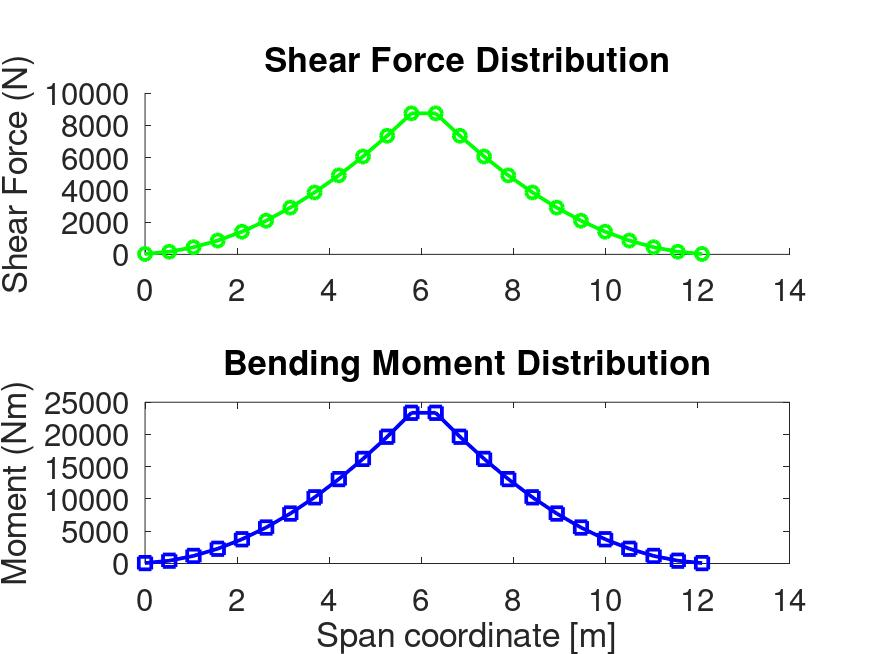
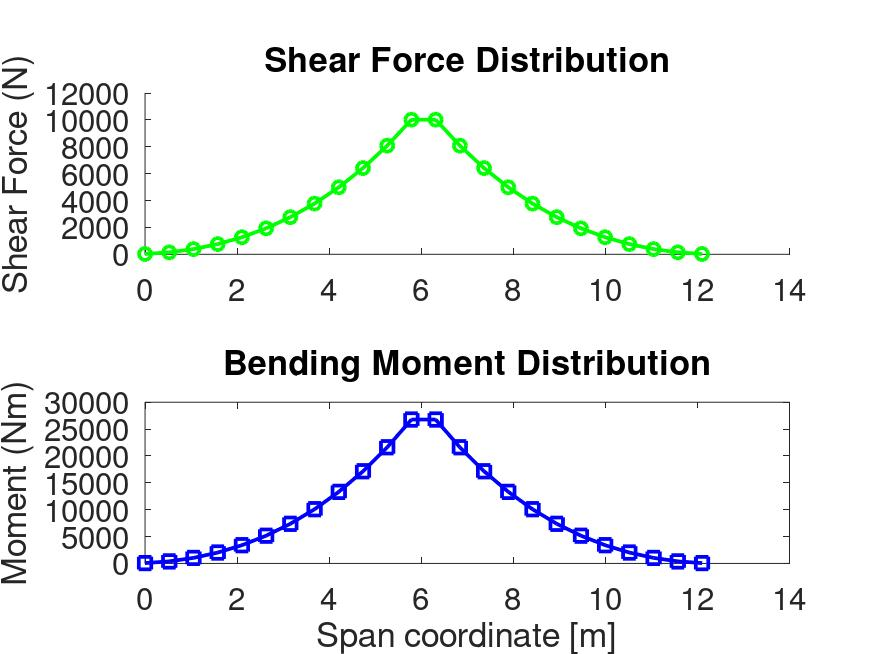
Changed a lot

diff --git a/project/plot_stress.m b/project/plot_stress.m
@@ -19,6 +19,7 @@ function plot_stress(v)
     E = 23.9E9;
     
     Ixx = 1.6117e+05 * 10^(-12);
+    Ixx = 1.6E-5;
     
     ndof = length(v);
     nnode = fix(ndof/3);
@@ -37,6 +38,7 @@ function plot_stress(v)
 
         
         theta(k) = 180/pi * v(3+3*(k-1)); % nodal twist
+        % theta(k) = v(3+3*(k-1)); % nodal twist
     end
     % Compute normal stress along span
     % Moment = -E * I * w'',
@@ -53,8 +55,8 @@ function plot_stress(v)
     w2 = diff(w1)/le;
     
 
-    t = c * 0.01;
-    % t = 0.11;
+    t = c * 0.17;
+    % t = 110e-3;
     Mx = E * Ixx .* w2';
     % Z = Mx /(0.5*t) ;
     sigma = 0.5*t*Mx /Ixx;
@@ -87,33 +89,16 @@ function plot_stress(v)
     % set(gca,'XTickLabel',a,'fontsize',15)
     % set(gca,'YTickLabel',b,'fontsize',15)
     
-    K = 1.45* 0.0212 * c^3 * 6e-4; % torsion constant of beam section [m^4], assume the thickness is t = 6mm
-    GK = G*K;
-    r = 120/2000;
-    thetap = diff(theta)*pi/180;
-    Mt = GK * thetap;
-    Tx = Mt/(r);
-    % A = 2*80*110*10^(-6);
-    A = 2 * 54000*0.6*10^(-6);
-    J = pi*(110^4 - 80^4)/32 * 10^(-12)
-    % J = 2 * Ixx
-    tau = Mt/J;
-    % tau = Tx/J ;
+    K = 1.45* 0.0212 * c^3 * 0.6e-3; % torsion constant of beam section [m^4], assume the thickness is t = 6mm
+    GK =G*K;
 
-    % figure(51);
-    % set(gcf, 'PaperPositionMode', 'manual');
-    % set(gcf, 'PaperUnits', 'inches');
-    % x0=600;y0=75;width=600;height=400;
-    % set(gcf,'units','points','position',[x0,y0,width,height])
-    % subplot(2,1,1);
-    % hold on 
-    % plot(ye,tau,"ro-","linewidth",1.8);
-    % title("Shear Stress Distribution","fontsize",15)
-    % ylabel("Shear Stress (pa)","fontsize",8)
-    % a = get(gca,'XTickLabel');
-    % b = get(gca,'YTickLabel');
-    % set(gca,'XTickLabel',a,'fontsize',18)
-    % set(gca,'YTickLabel',b,'fontsize',18)
+
+    thetap = (1/le).*diff(theta)*pi/180;
+    Mt = GK * thetap ;
+    
+    A = 54000*0.55*0.3*10^(-9);
+    tau = Mt/(2*A);
+    
 
     subplot(2,1,2);
     plot(ye,tau,"bs-","linewidth",1.8)
@@ -125,15 +110,18 @@ function plot_stress(v)
     set(gca,'XTickLabel',a,'fontsize',15)
     set(gca,'YTickLabel',b,'fontsize',15)
 
-    % print -djpg Stress7.jpg
-    % print -djpg Stress5.jpg
+    % print -djpg Stress73.jpg
+    % print -djpg Stress53.jpg
     % Minimum Safety Factor = Ultimate_stress/ max_Allowed_stress
     % In our case, since the material property is similar to Aluminum, we can assume 
     % Assume the ultimate stress is identical to alumn's 
-    Ultimate_norm = 633E6 ;
-    Ultimate_shear = 31E6 ;
-    % Ultimate_shear = 2015/J ;
 
+    % Ultimate_norm = 633E6
+    % Ultimate_norm = 53007 * 0.5*t/Ixx
+    Ultimate_norm = 208E6
+   
+    Ultimate_shear = 158E6
+    
     factor_normal = Ultimate_norm / max(abs(sigma));
     factor_shear = Ultimate_shear / max(abs(tau));
     fprintf("Minimum Safety factor of normal stress is %.2f\n", factor_normal)

diff --git a/project/task3_valid.m b/project/task3_valid.m
@@ -38,7 +38,7 @@ E = 23.9E9;
 % The format is dpm(i,:) = [mass x_coord y_coord]
 % 7 connection in total
 % From  root to tip = 1:7
-npmass = 15 ;
+npmass = 7 ;
 m1 = 3*(40.33+6.39+2)/1000; %kg
 m2 = 3*(20.06+2*2)/1000; %kg
 m3 = 3*(40.33+2*6.39+2*2)/1000; %kg
@@ -60,13 +60,12 @@ dpm(7,:) =[m1 x_coord 0.5*l];
 dpm(8,:) =[m_fuse 0 l/2];
 
 
-dpm(9,:)  =[m1 x_coord  (l/12 + l/2)];
-dpm(10,:)  =[m2 x_coord  (l/12 + l/2)];
-dpm(11,:) =[m3 x_coord  (2*l/12 + l/2)];
-dpm(12,:) =[m2 x_coord  (3*l/12 +l/2)];
-dpm(13,:) =[m3 x_coord  (4*l/12 + l/2)];
-dpm(14,:) =[m2 x_coord  (5*l/12 + l/2)];
-dpm(15,:) =[m1 x_coord  l];
+dpm(9,:)  =[m2 x_coord  (l/12 + l/2)];
+dpm(10,:) =[m3 x_coord  (2*l/12 + l/2)];
+dpm(11,:) =[m2 x_coord  (3*l/12 +l/2)];
+dpm(12,:) =[m3 x_coord  (4*l/12 + l/2)];
+dpm(13,:) =[m2 x_coord  (5*l/12 + l/2)];
+dpm(14,:) =[m1 x_coord  l];
 
 ndof = 3*nnodes;
 % Since aircraft is maneuvoring, no rigid body conrtain at all
@@ -89,12 +88,14 @@ B(1,:) = e1';
 B(2,2:3:end) = 1;
 B(2,1:3:end) = yn;
 idof = 3*(nelem/2)+3;
-B(3,:) = e3';
 % B(3,idof) = 1;
+B(3,:) = e3';
 
-nz=9;
-u= 350/3.6;
-% u = 30;
+
+
+
+nz=9;u= 350/3.6;
+
 k=0;
 [Q,vtot,ve,alfa0,delta0] = flight_load(K,M,B,Qip,f,nelem,u,nz,k);
 
@@ -103,8 +104,8 @@ fprintf("Total mass of aircraft is %.2f kg \n",mtot);
 
 fprintf("The initial angle of attack is %.2f deg \n",alfa0*180/pi);
 fprintf("The angle of attack is %.2f deg \n",vtot(idof)*180/pi);
-fprintf("The elevator deflection  is %.2f deg \n",delta0*180/pi);
-plot_stress(vtot);
+fprintf("The aileron deflection  is %.2f deg \n",delta0*180/pi);
+% plot_stress(vtot);
 Z = null(B);
 
 [udiv,zdiv] = divergence(Z'*K*Z,Z'*Q*Z);

diff --git a/project/nwing.m b/project/nwing.m
@@ -49,7 +49,7 @@ function [M,K,Z,Qip,f,CRv,CRd,GK] = nwing(B, l, b, t, ba, mhinge, rhop, E, G, ne
   xte = +b;
   ca = chail*ones(nsup, 1);
   xea = -0.5*chail;
-
+  xea
   % mass and inertia properties
   mp = rhop*chord*t; 
   # The mass per unit lenth of spar, material : carborn fiber
@@ -71,7 +71,8 @@ function [M,K,Z,Qip,f,CRv,CRd,GK] = nwing(B, l, b, t, ba, mhinge, rhop, E, G, ne
   Jd = 0;                    % neglect rotary inertia [kgm]
 
   % center of distributed mass and rotary inertia
-  xcm = (mp*xp+md*xd) / (mp+md);               % center of distributed mass
+  xcm = (mp*xp+md*xd) / (mp+md);   
+  xcm            % center of distributed mass
   Jcm = Jp+mp*(xp-xcm)^2 + Jd+md*(xd-xcm)^2;   % rotary inertia wrt cm [kgm]
 
   % total distributed properties
@@ -89,10 +90,11 @@ function [M,K,Z,Qip,f,CRv,CRd,GK] = nwing(B, l, b, t, ba, mhinge, rhop, E, G, ne
   ## And spar is a box 
   % I = (cplate*t^3/12); 
   % fprintf("Moment of Inertia is %.8E \n",I) 
-  I = 1.6117e+05 * 10^(-12);
-  % I = 1.4E-6;% beam section area moment of inertia [m^4]
+  % I = 1.6117e+05 * 10^(-12);
+  I = 1.6E-5;% beam section area moment of inertia [m^4]
   fprintf("Moment of Inertia is %.8E \n",I) 
   EI = E*I;            % bending stiffness [Nm^2]
+  EI
   # According to W12C-JARA reference
   K = 1.45* 0.0212 * chord^3 * 6e-4; % torsion constant of beam section [m^4], assume the thickness is t = 6mm
   GK = G*K;            % torsional stiffness [Nm^2]

diff --git a/project/flight_load_no_HTP.m b/project/flight_load_no_HTP.m
@@ -44,11 +44,11 @@ function [Q,vtot,ve,alfa0,delta0] = flight_load(K,M,B,Qip,f,nelem,u,nz,k)
     ######### Solve the inertia relief 
 
     LHS = [
-            Z'*(K-q*Q0)*Z    -q*Z'*Q0*e3      zeros(ndof-3,1)
+            Z'*(K-q*Q0)*Z    -q*Z'*Q0*e3     
             
-            q*e1'*Q0*Z       q*e1'*Q0*e3      q*e1'*Qtail*e3
-
-            q*e3'*Q0*Z        q*e3'*Q0*e3      q*e3'*Qtail*e3
+            q*e1'*Q0*Z       q*e1'*Q0*e3     
+     
+            % q*e3'*Q*Z        q*e3'*Q*e3      q*e3'*f
            
             ];
 
@@ -59,21 +59,29 @@ function [Q,vtot,ve,alfa0,delta0] = flight_load(K,M,B,Qip,f,nelem,u,nz,k)
 
             e1'*M*e1*g*nz
             
-            0
+        
             ];
 
     x = LHS\RHS;
 
     # Extract elastic deformation 
-    vhat = x(1:end-2);
+    vhat = x(1:end-1);
     # Extract angle of attack as rigid body motion
-    alfa0 = x(end-1);
-    delta0 = x(end);
+    alfa0 = x(end);
+    delta0 = -5*pi/180;
     # Assemble the deformation vector 
-    vtot = Z*vhat + alfa0*e3 + delta0*e3;
-    ve = Z*x(1:end-2);
+    vtot = Z*vhat + alfa0*e3;
+ 
+    ve = Z*x(1:end-1);
     
     # Check residual of solution by the equlibrium
-    res = K * vtot + M * nz * g* e1 - q * Q0 * vtot;
-    fprintf("Computation residual =  %E \n",min(abs(res)))
+    % res = K * vtot + M * nz * g* e1 - q * Q0 * vtot;
+    % fprintf("Computation residual =  %E \n",min(abs(res)))
+
+
+
+
+
+
+
 end

diff --git a/project/valid_plot.m b/project/valid_plot.m
@@ -14,11 +14,12 @@ function valid_plot(v)
 # According to the technic report, the main wing is assumed as ellipse with chord = 500mm
     b = c/2 ; % m
 # The alieron span is defined as c*E, E = 0.225 in W12C-JARA-0001.pdf P
-    t = 6e-3;
+
     G = 8600E6;
     E = 23.9E9;
     
-    Ixx = 1.6117e+05 * 10^(-12);
+    % Ixx = 1.6117e+05 * 10^(-12);
+    Ixx = 1.85E-5;
     
     ndof = length(v);
     nnode = fix(ndof/3);
@@ -53,12 +54,15 @@ function valid_plot(v)
     w2 = diff(w1)/le;
     
 
-    t = c * 0.01;
+    t = c * 0.17;
+    % t = 115e-3;
     r = 2.6723;
-    Mx = 1.01*E * Ixx .* w2';
+    % Mx = 1.01*E * Ixx .* w2';
+    Mx = E * Ixx .* w2';
     Z = Mx /(r) ;
     fprintf("Maximum Bending moment %.2f \n",max(Mx));
     fprintf("Maximum Shear Force %.2f \n",max(Z));
+    % sigma = 0.5*t*Mx /Ixx;
     sigma = 0.5*t*Mx /Ixx;
    
 
@@ -91,7 +95,7 @@ function valid_plot(v)
 
     print -djpg StressValid.jpg
 
-    Ultimate_norm = 633E6 ;
+    Ultimate_norm = 208E6 ;
     factor_normal = Ultimate_norm / max(abs(sigma));
     fprintf("Minimum Safety factor of normal stress is %.2f\n", factor_normal)
 end

diff --git a/pkbeam/labwing.m b/pkbeam/labwing.m
@@ -75,6 +75,7 @@ function [M,K,Z,Qip,f,CRv,CRd,s] = labwing(B, l, b, t, ba, mhinge, rhop, E, G, n
   fprintf("Moment of Inertia is %.8E \n",I) 
   K = (cplate*t^3/3);  % torsion constant of beam section [m^4]
   EI = E*I;            % bending stiffness [Nm^2]
+  EI
   GK = G*K;            % torsional stiffness [Nm^2]
 
   % finally, setup wing with spanwise constant properties

diff --git a/project/full_flutter.m b/project/full_flutter.m
@@ -53,7 +53,7 @@ yn = 0.5*l*linspace(-1,1,nnodes);idof = 3*(nelem/2)+3;B = zeros(3,ndof);
 B(1,:) = e1';
 B(2,2:3:end) = 1;
 B(2,1:3:end) = yn;
-B(3,idof) = 1;
+B(3,:) = e3';
 
 Z = null(B);
 nz=7;u= 350/3.6;
